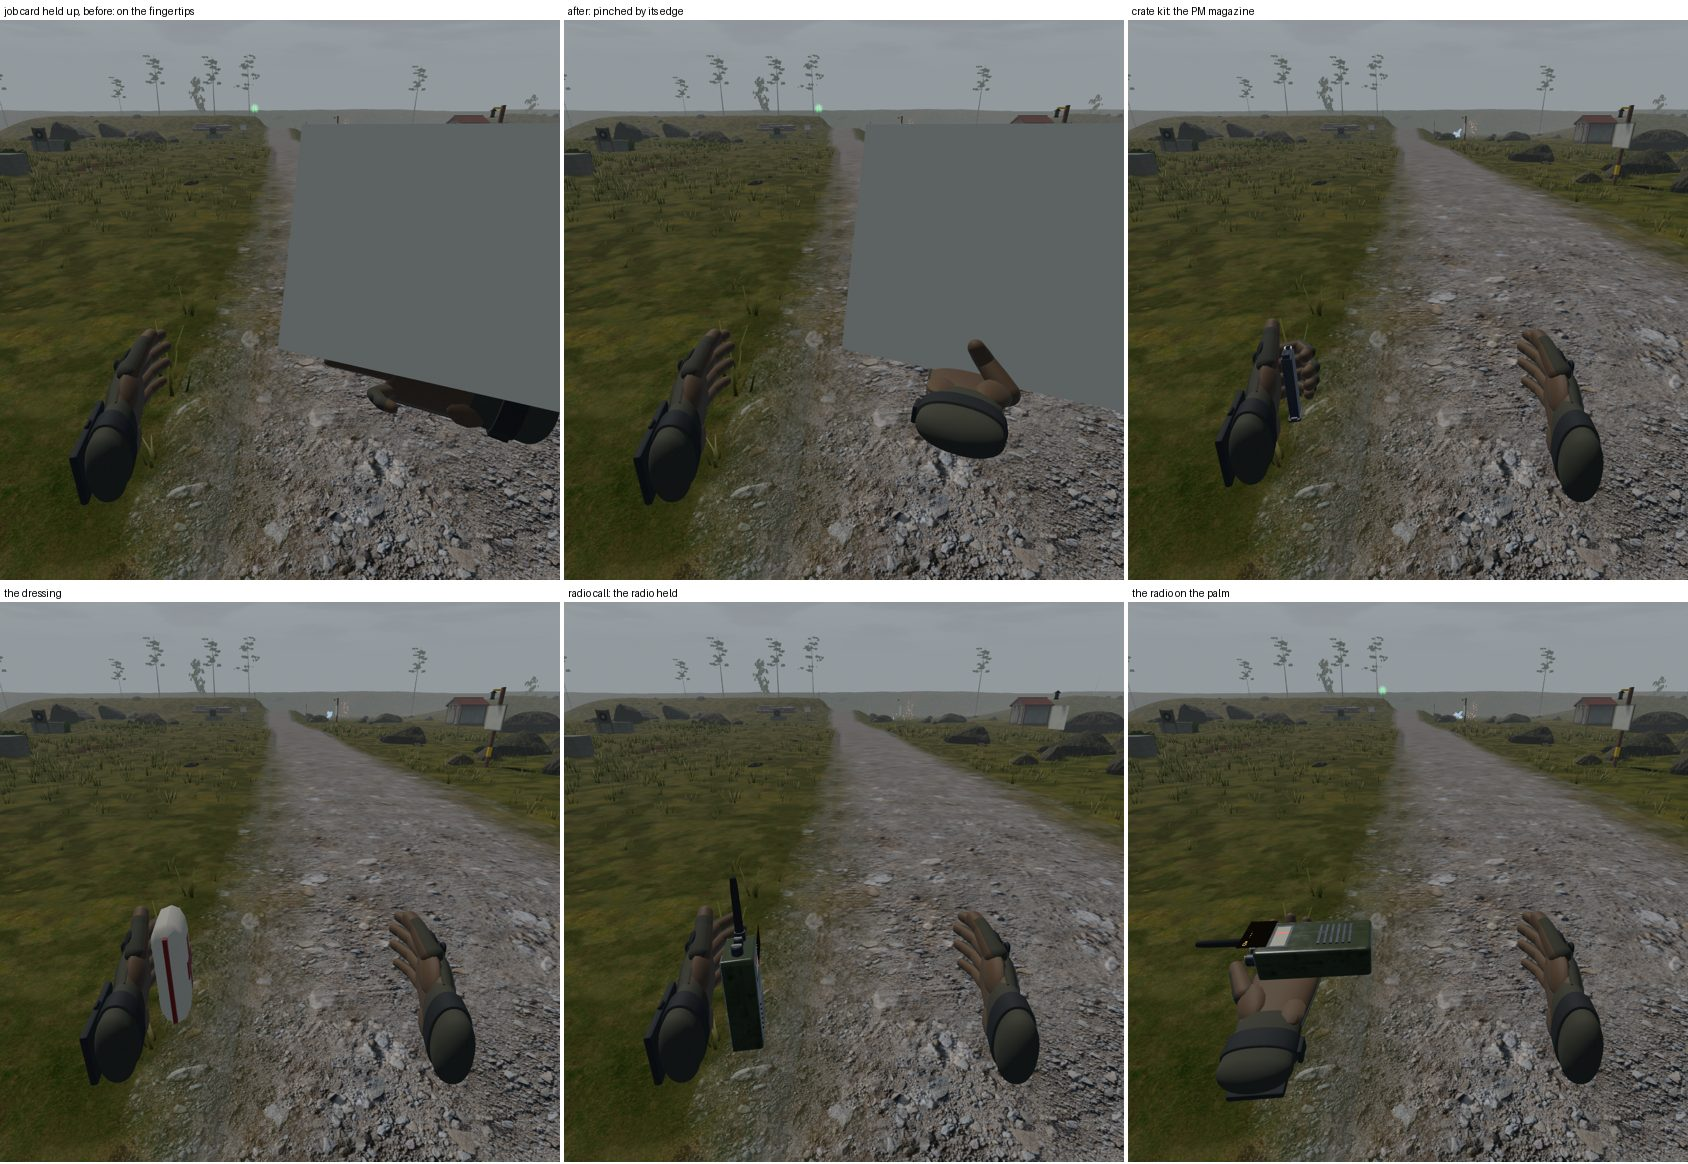
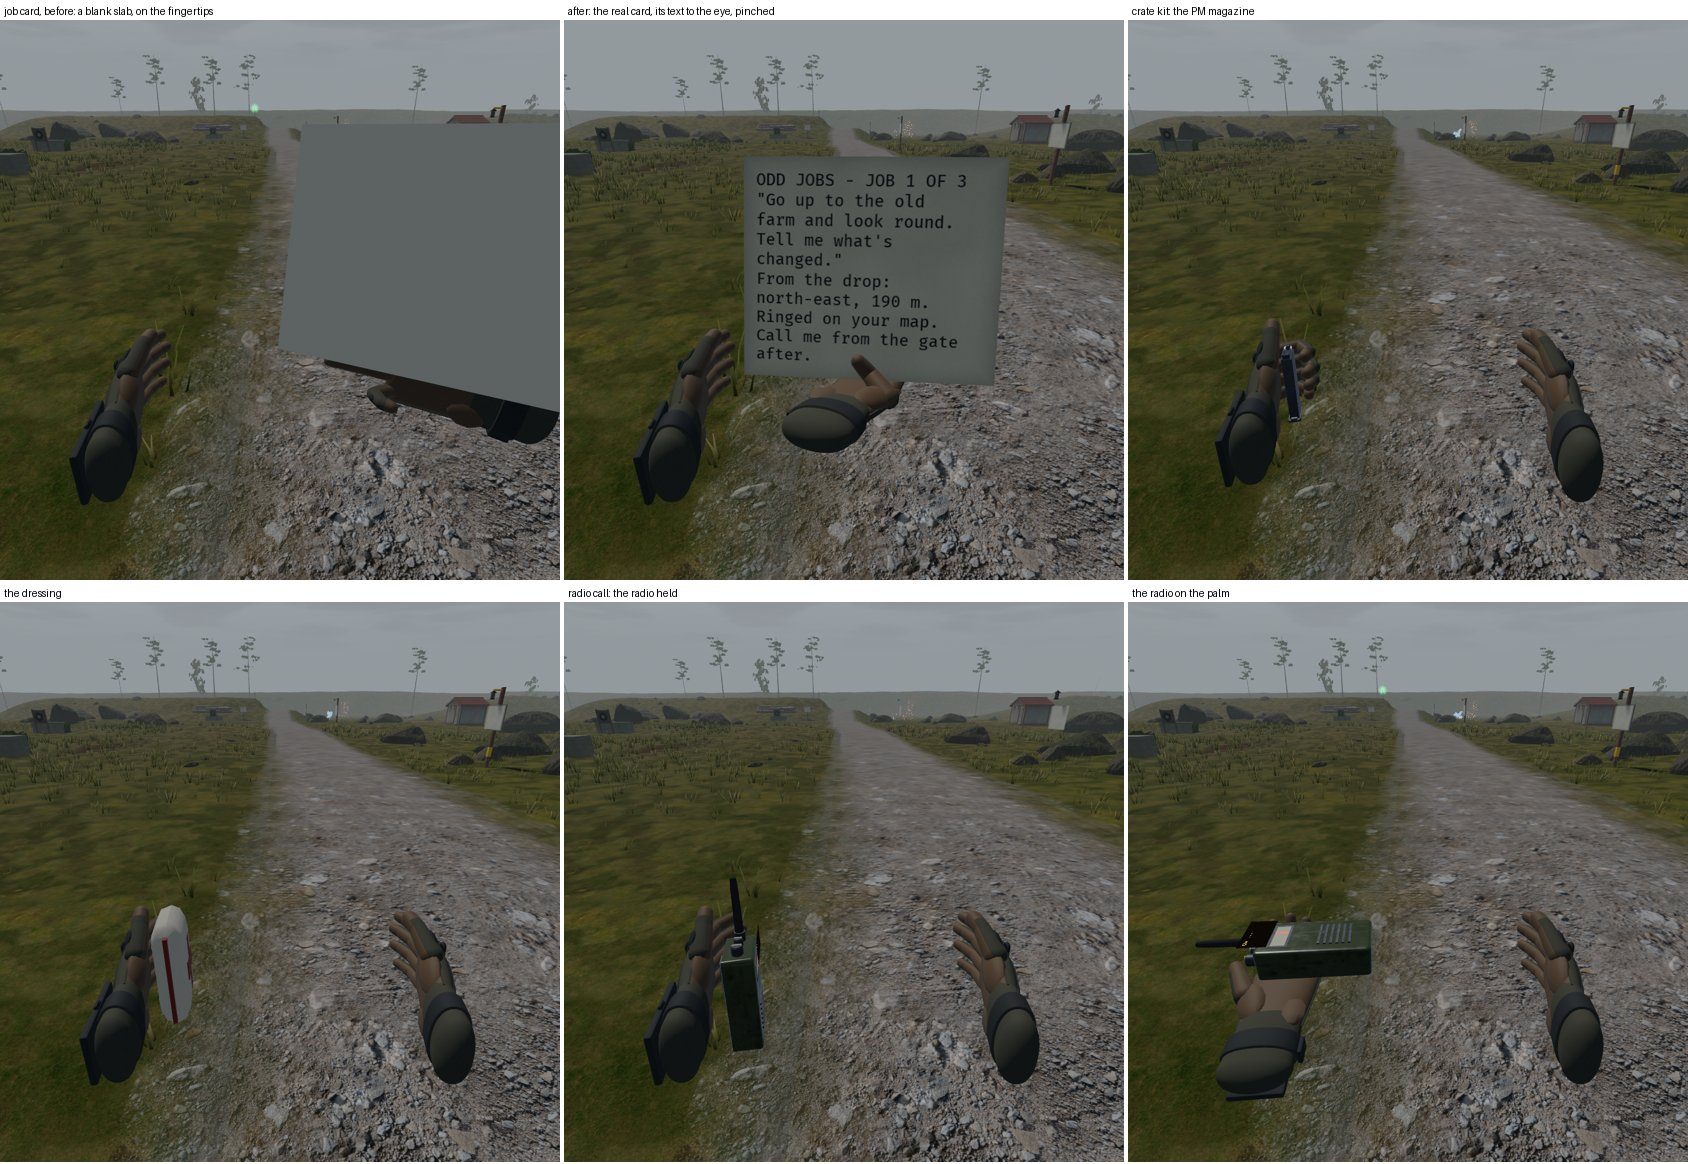
Shots: the job card reads at the headset eye; fp:read before the face
Sheet 35's first panels: the blank slab (the gallery's own box) beside
the real card held up as a reader holds it, its text to the eye.

Claude-Session: https://claude.ai/code/session_01DtdvKhReJzNvkQesvuCiZy

Changed region(s): [[0.4313, 0.0928, 0.6777, 0.4021], [0.0308, 0.0, 0.1232, 0.0309], [0.3697, 0.0, 0.4005, 0.0309]]

diff --git a/src/dev.rs b/src/dev.rs
@@ -1070,7 +1070,9 @@ fn first_person_hands(
             // the glove seated on it (`render::hold`).
             "read" => {
                 glove(&mut commands, Side::Left, rest(Side::Left), [0.15; 5]);
-                let hand = rest(Side::Right);
+                // Brought in front of the face to read, not at rest.
+                let mut hand = rest(Side::Right);
+                hand.translation = eye + (flat * 0.4 + right * 0.03 - Vec3::Y * 0.3) / zoom;
                 let size = Vec2::new(0.3, 0.26);
                 let card = crate::interact::read::held_up(hand.translation, eye, size);
                 // The real card: its text drawn by `render::screen` on its

diff --git a/docs/shots/hands/README.md b/docs/shots/hands/README.md
@@ -207,11 +207,15 @@ rounds, the magazine and the matches rather than lying flat under them.
 `35_first_hour_eye.jpg` (the yard by day, as one headset eye sees it:
 `EXTRACTION_FOV=100`, `--size 1000x1000`, `--camera 0,0,40,0,-25`,
 `--gallery fp:read`, `fp:pm_mag`, `fp:field_dressing`, `fp:radio`,
-`fp:radio+palm`): the first hour's hands. The job card held up to read
-stood on the glove's fingertips like a tray (top left); a thin flat
-thing is now held only pinched by an edge (`render::hold::thin`), and
-the glove takes the card's bottom edge between thumb and fingers (top
-middle). The crate's magazine, the dressing and the radio read right at
+`fp:radio+palm`): the first hour's hands. Top left, before: the job
+card held up to read stood on the glove's fingertips like a tray, and
+was a blank grey slab (the gallery drew a box of its own, not the card:
+the game's card always had its text, to the eye, as the world sweep now
+checks for every thing taken up to read). Top middle, after: the real
+card, its first job's text drawn on its face to the eye, held before the
+face as a reader does, pinched by its bottom edge between thumb and
+fingers (a thin flat thing is now held only pinched by an edge,
+`render::hold::thin`). The crate's magazine, the dressing and the radio read right at
 the eye. (`fp:read`, new, holds the job card up as `interact::read`
 does; the `fp` gallery now stands a 0-height camera's eye 1.7 m up, as
 the camera does: it had set the hands out round the feet.)
